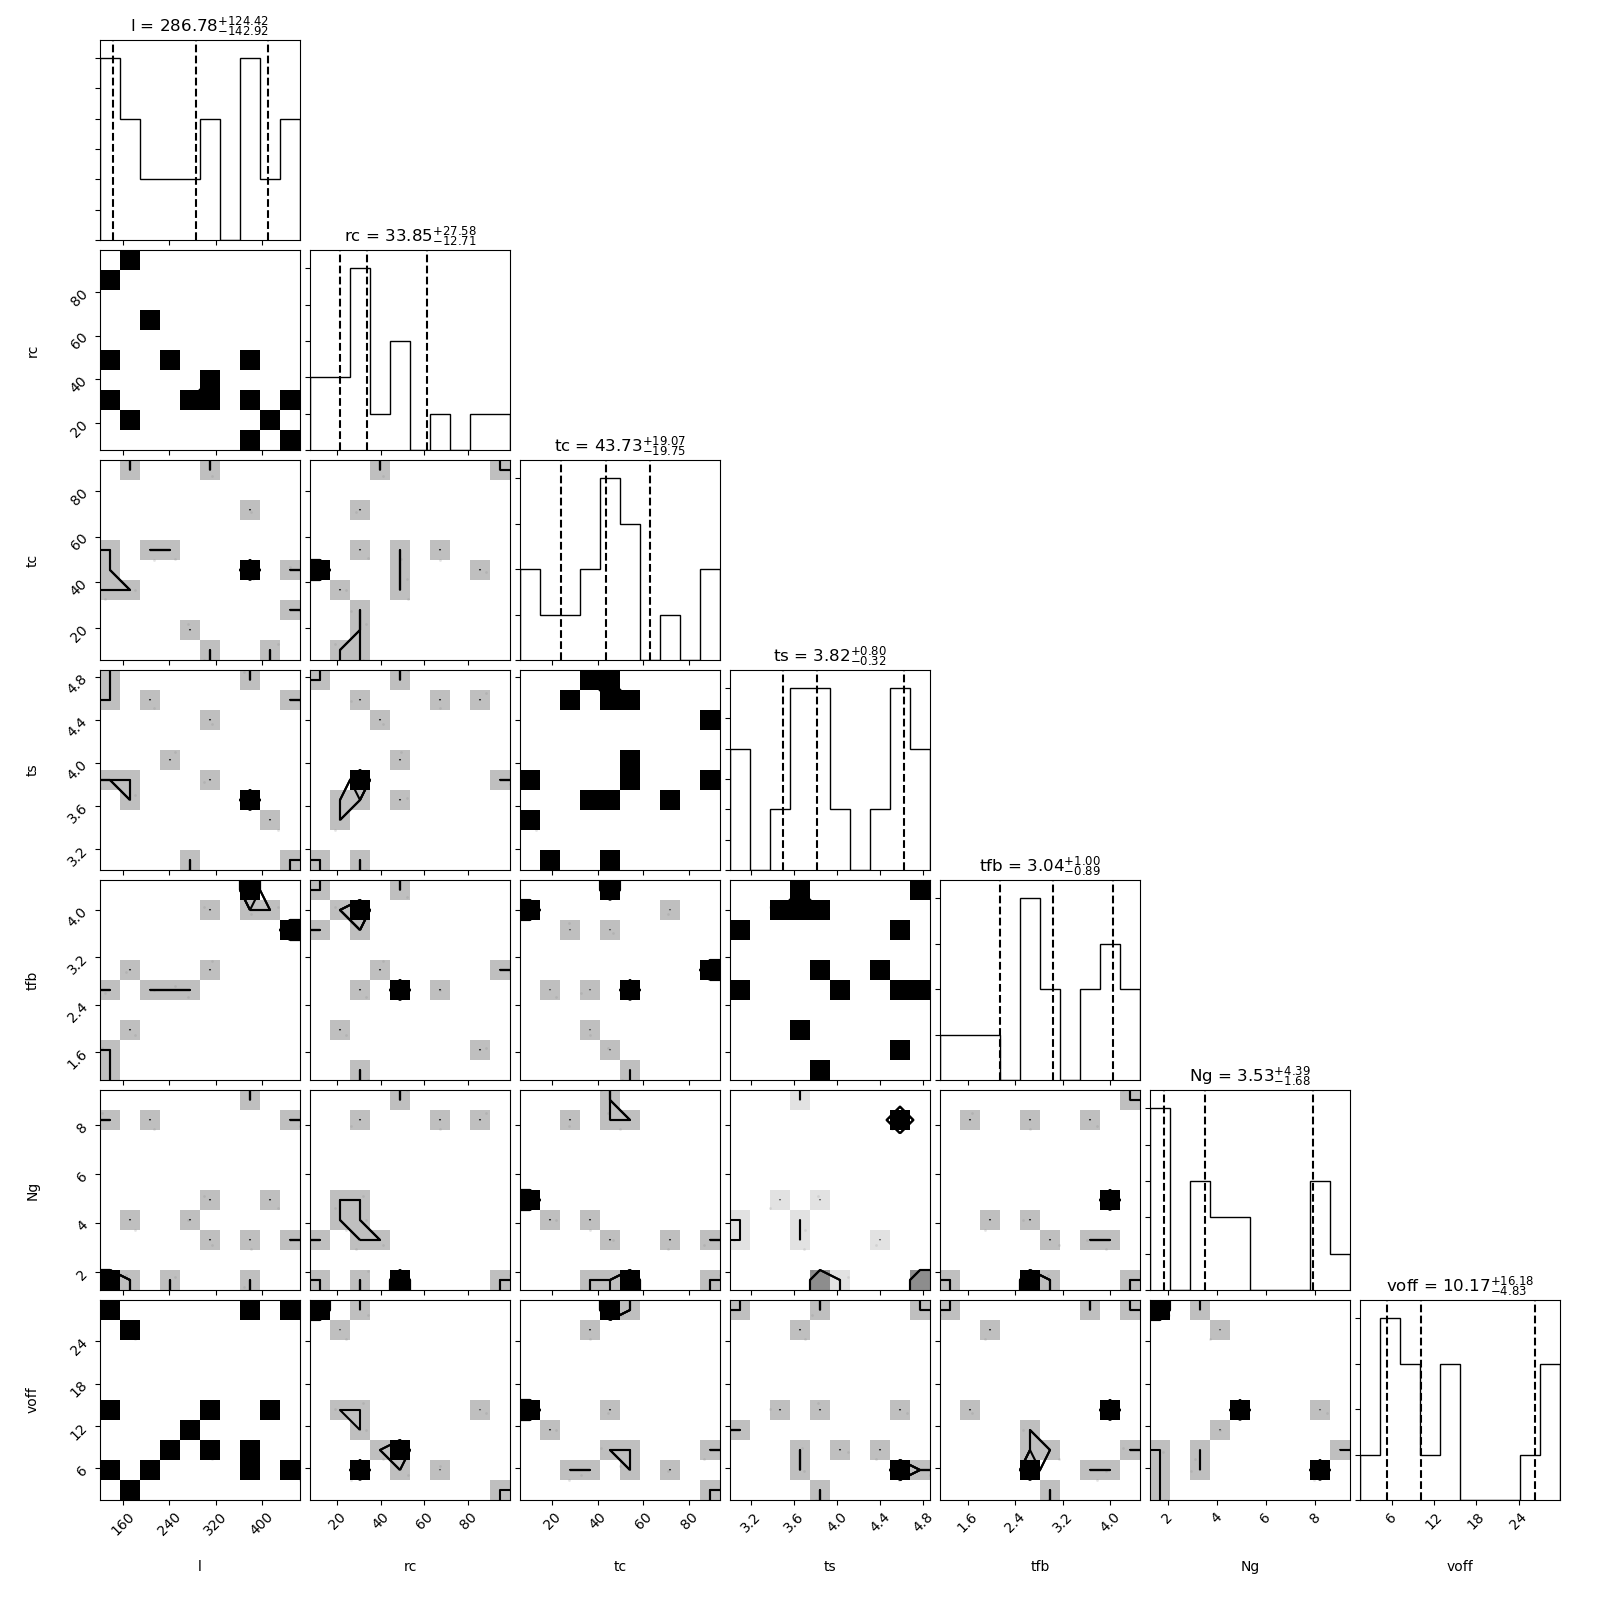
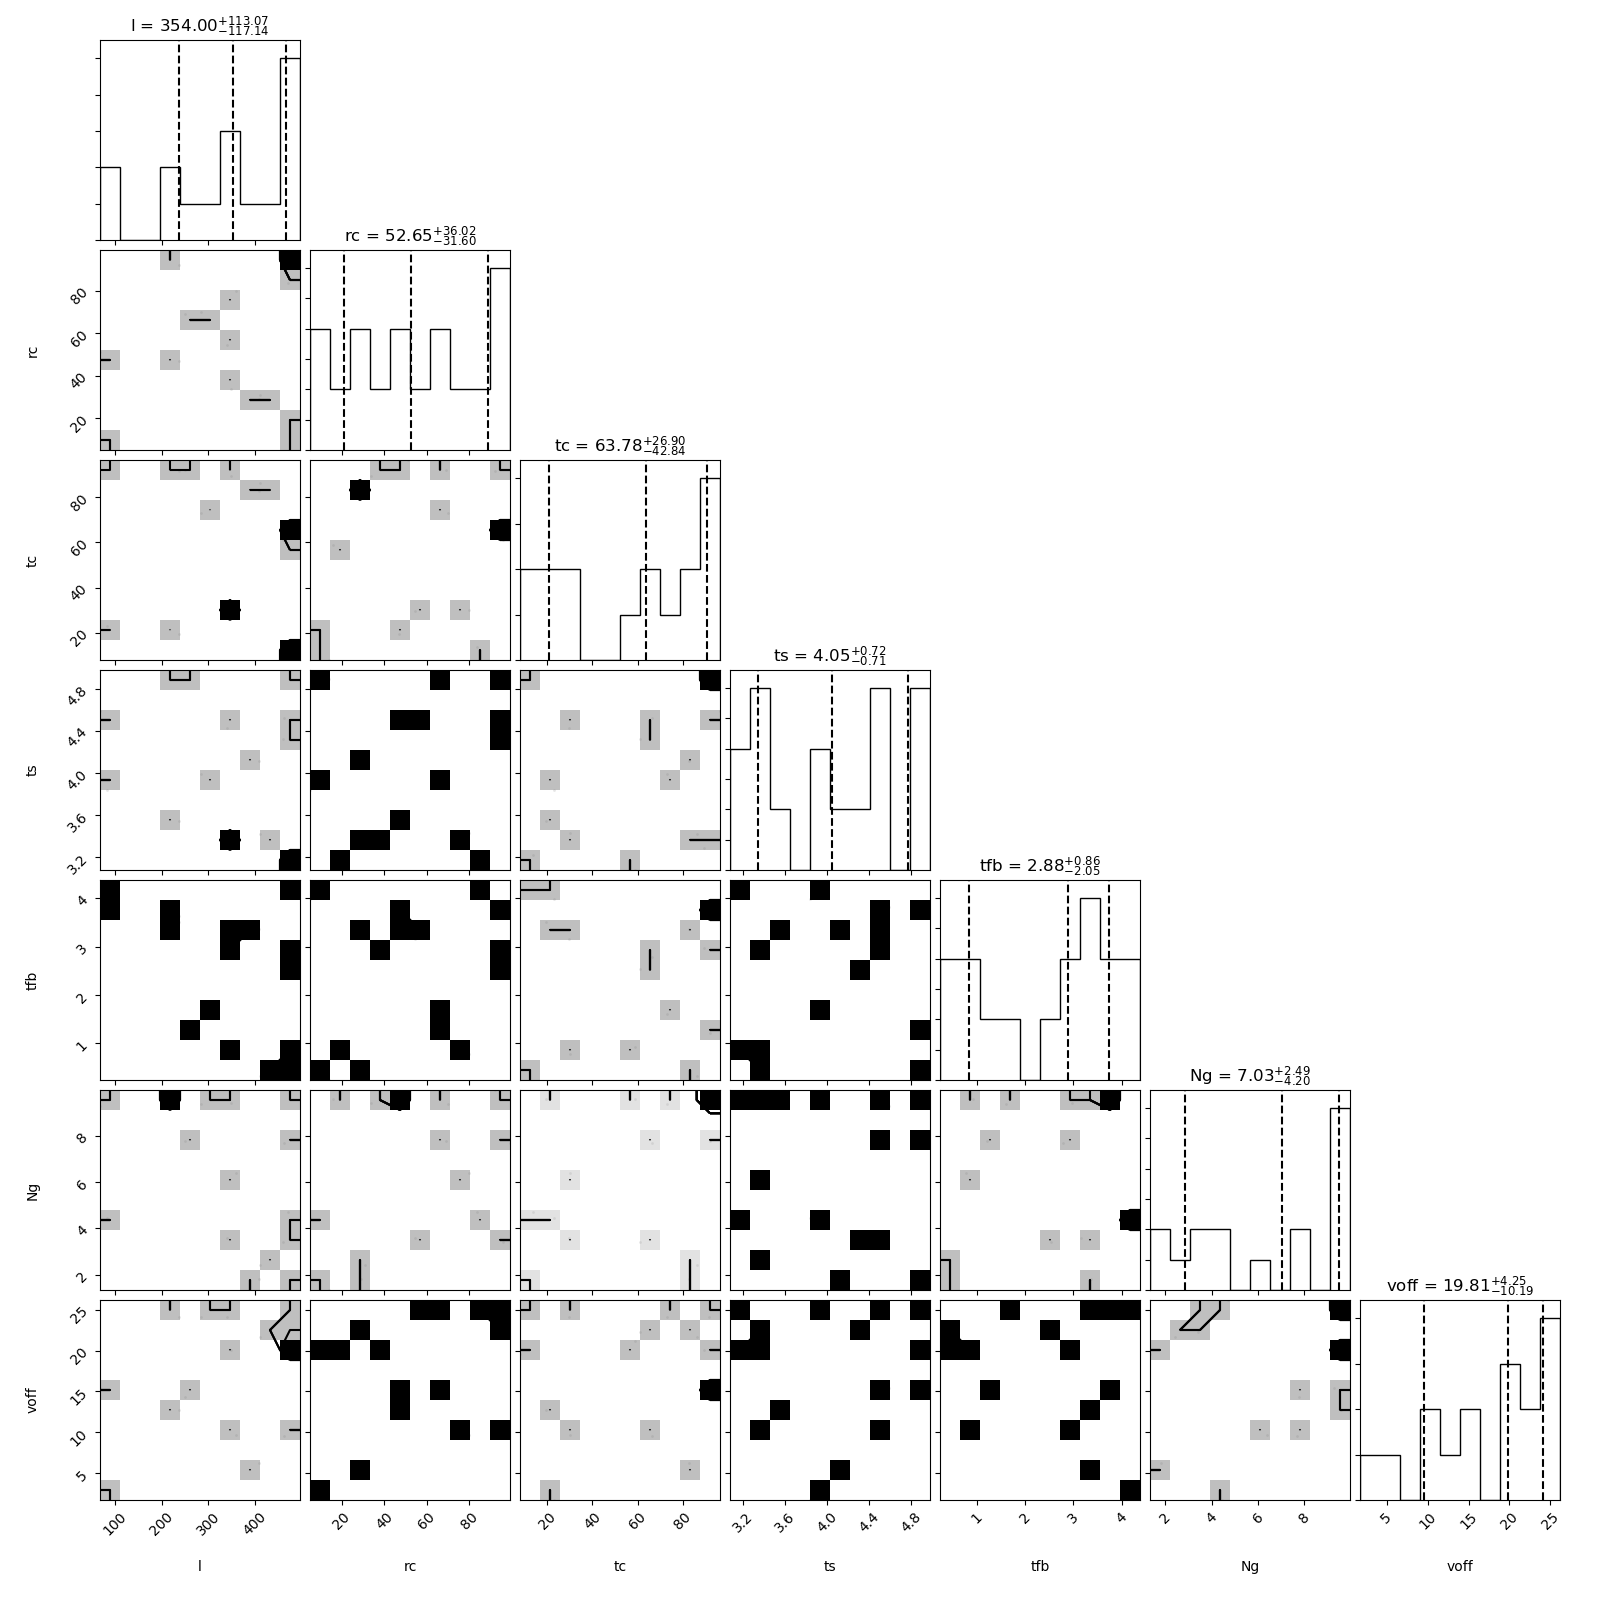
not tracking plots and mcmc chains

diff --git a/mksbatchscripts.py b/mksbatchscripts.py
@@ -9,7 +9,7 @@ for infile in infiles:
     with open(galaxy+'_submit.sh', 'w') as file:
         file.write('#!/bin/bash\n')
         file.write('#\n')
-        file.write('#SBATCH --job-name=gmchiicorr_'+galaxy+'\n')
+        file.write('#SBATCH --job-name='+galaxy+'_gmchiicorr\n')
         file.write('#SBATCH --nodes=1\n')
         file.write('#SBATCH --ntasks=1\n')
         file.write('#SBATCH --ntasks-per-node=24\n')

diff --git a/model_plots.py b/model_plots.py
@@ -13,6 +13,7 @@ bins=None
 # Define fiducial model
 rmax=500
 pbest=[200, 50, 20, 10, 2, 5, 10]
+#pbest=[247, 75, 10, 3.8, 0.6, 10, 16.2]
 r00, w00, ew00, fhg00 = eval_w(l0=pbest[0], rc0=pbest[1], tc0=pbest[2], ts0=pbest[3], tfb0=pbest[4], Ng0=pbest[5], voff0=pbest[6], rmax=rmax, bins=bins)
 
 

diff --git a/fitmodel.py b/fitmodel.py
@@ -107,8 +107,8 @@ p0[:,6]=np.random.uniform(voffrange[0], voffrange[1], nwalkers)
 
 # # Run MCMC Chain
 
-Nmc=2000
-#Nmc=2
+#Nmc=2000
+Nmc=2
 
 print("Starting MCMC")
 t0full=time.time()
